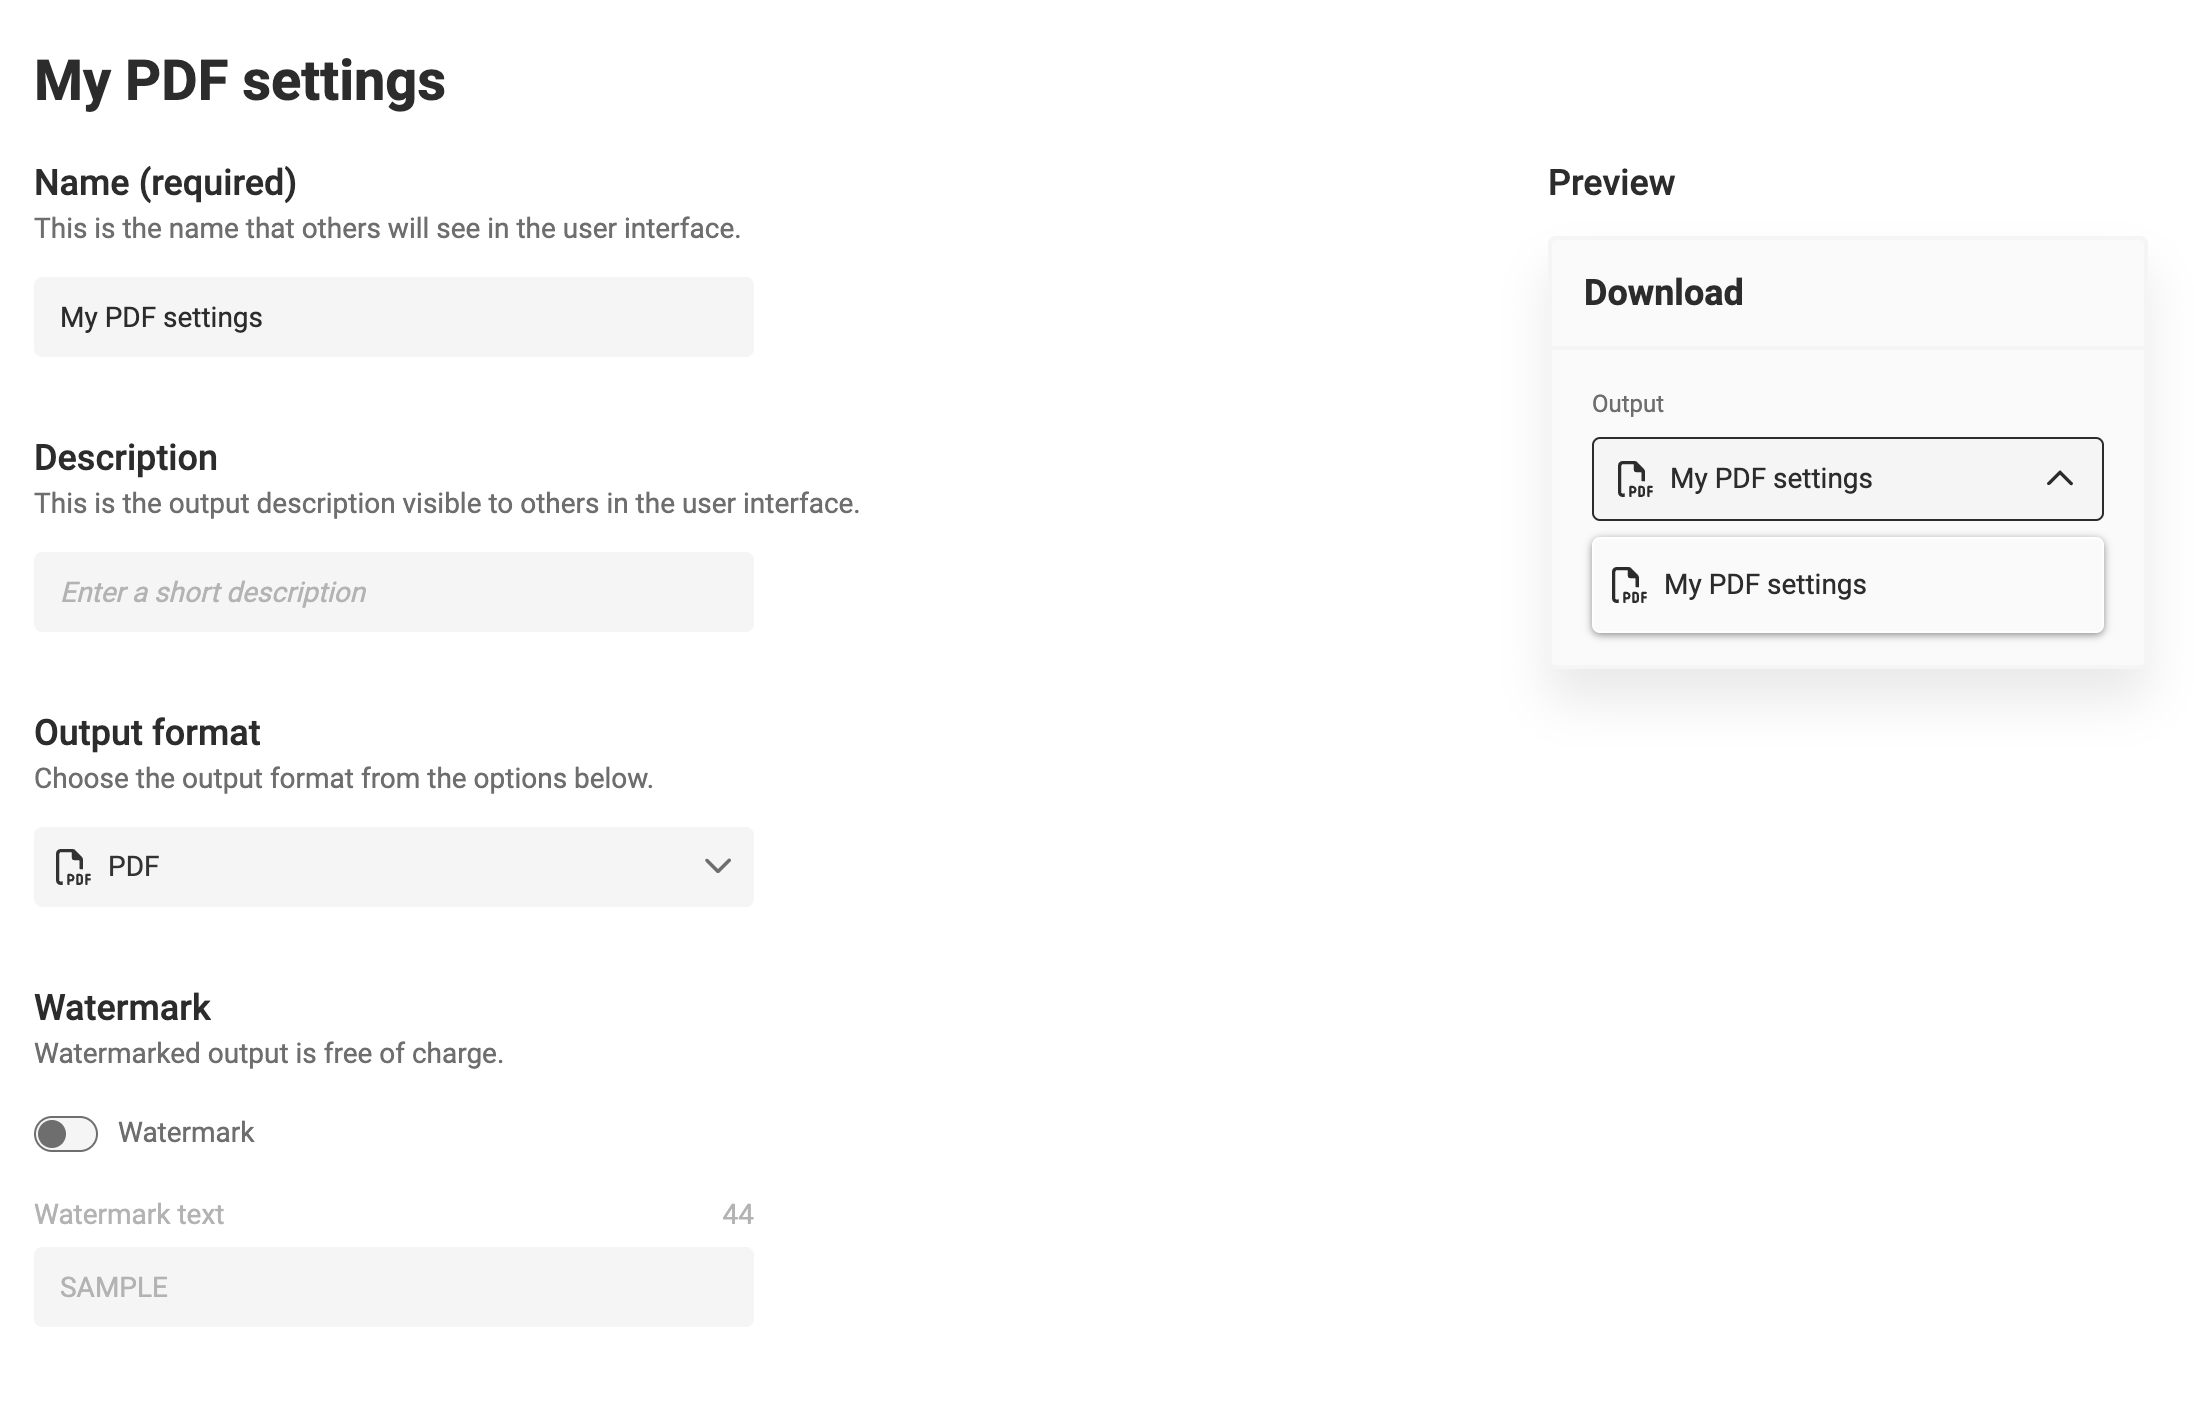
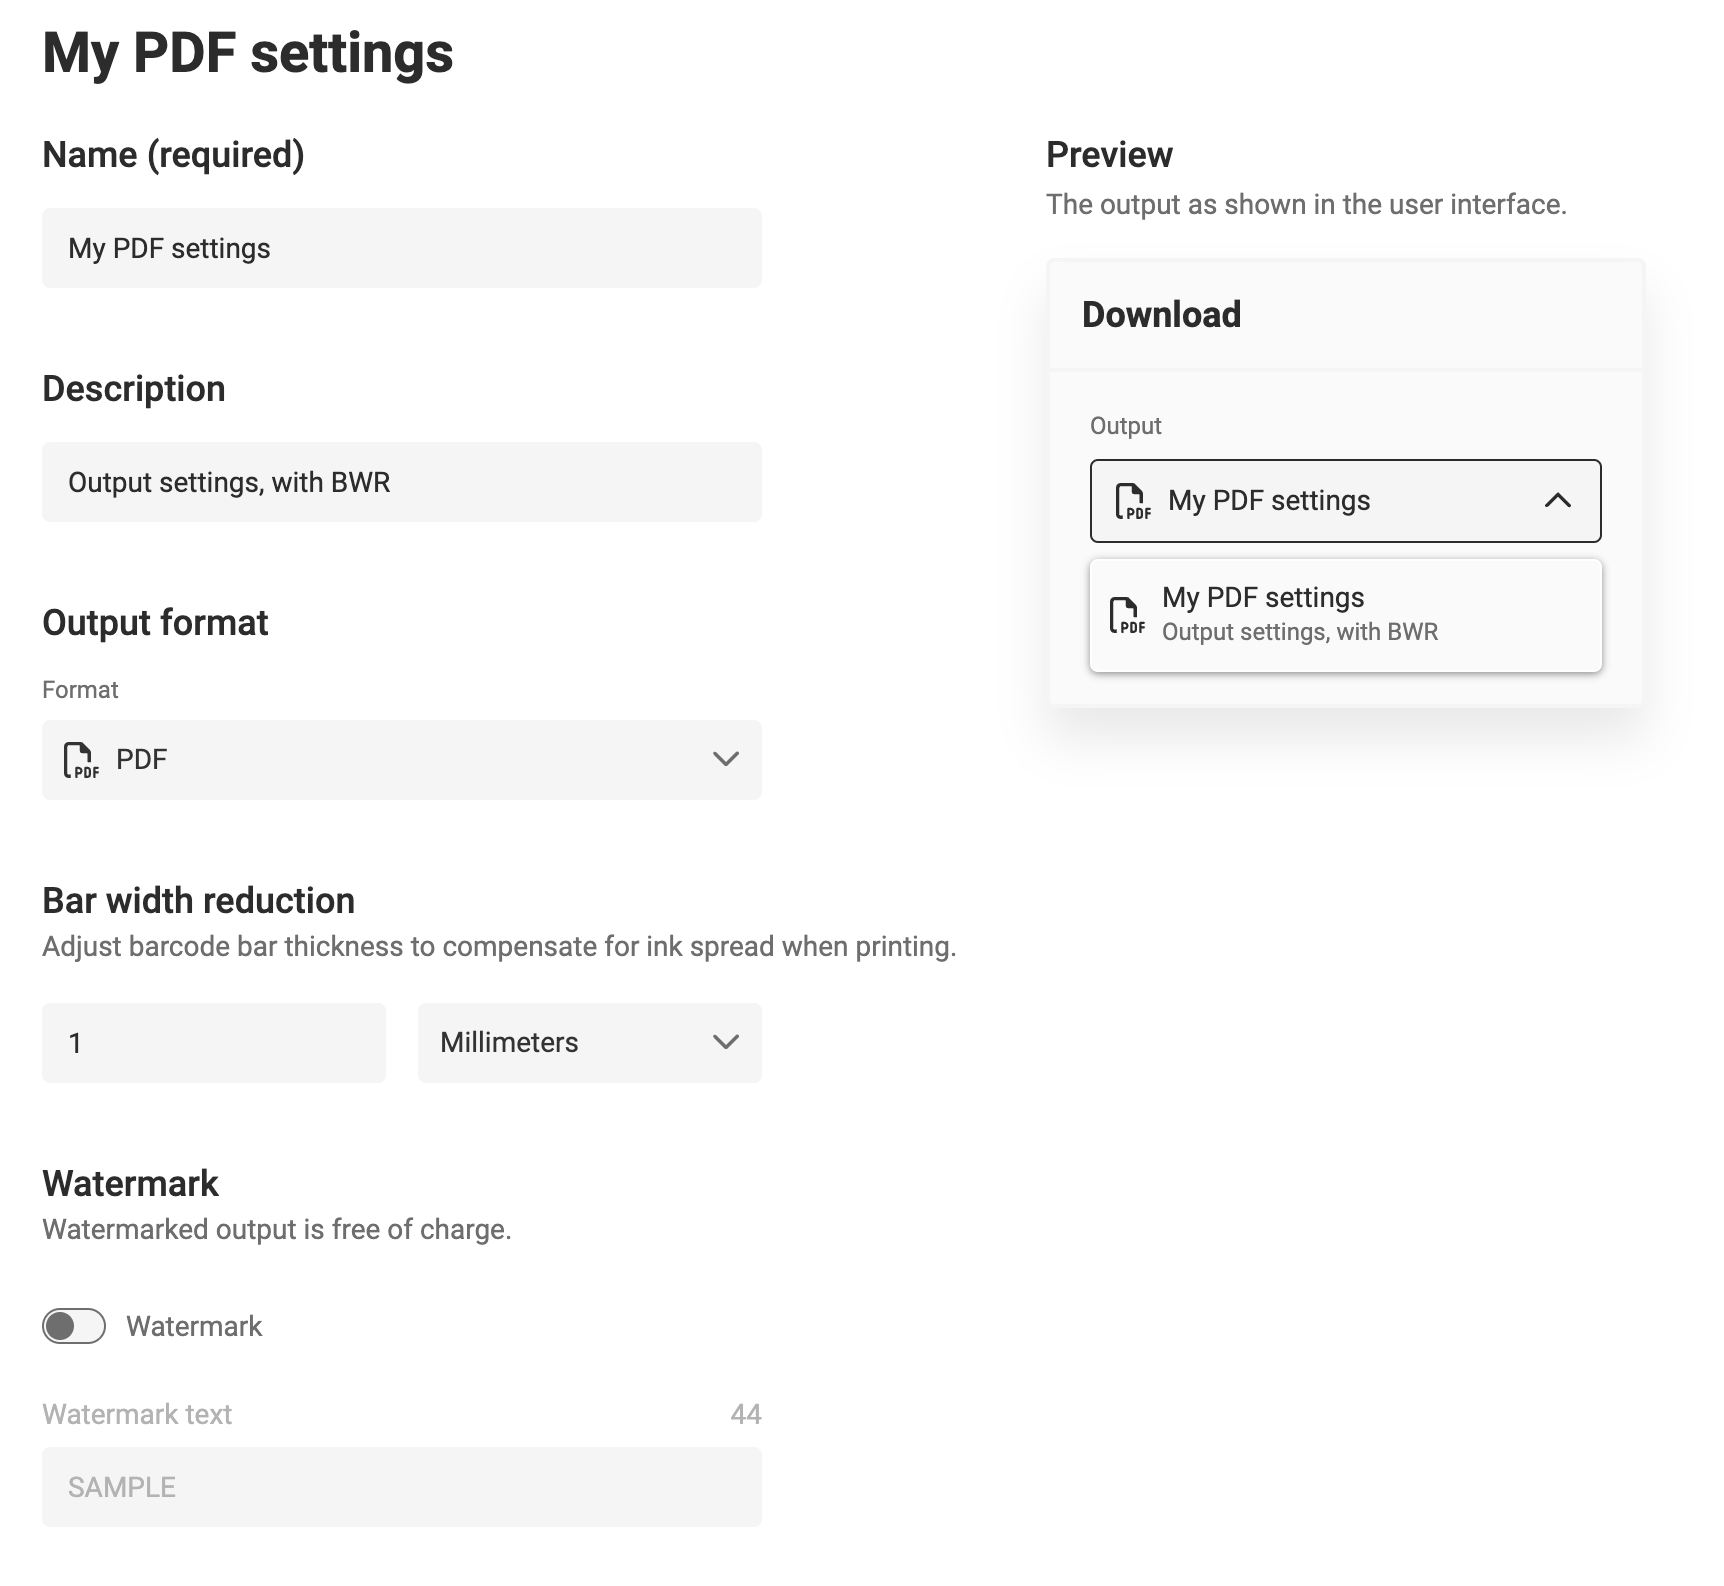
BWR for output settings

diff --git a/docs/GraFx-Studio/guides/output/settings/index.md b/docs/GraFx-Studio/guides/output/settings/index.md
@@ -60,6 +60,8 @@ See [generic settings](#generic-settings-for-all-file-types)
 
 ![screenshot-full](os12.png)
 
+Next to the generic settings, you can set the "Bar width reduction"
+
 ## JPG output settings
 
 ![screenshot-full](os13.png)
